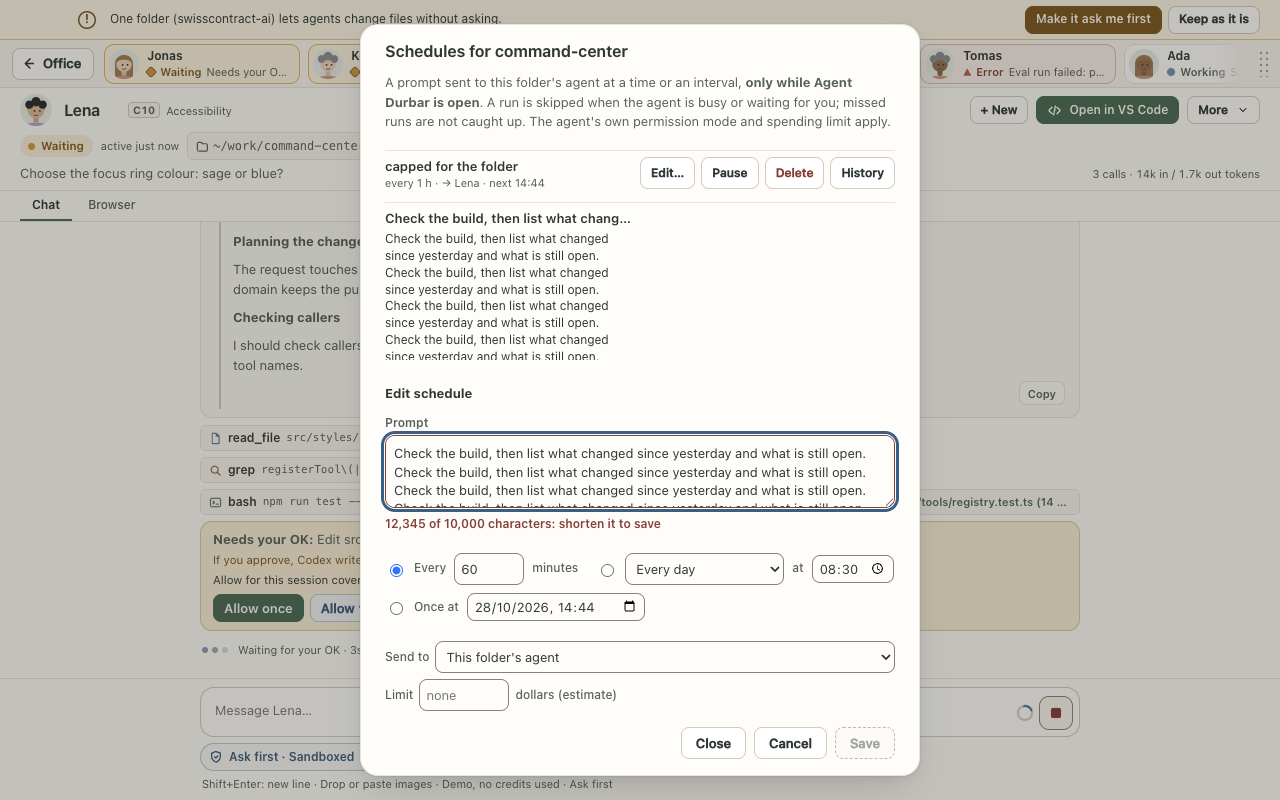
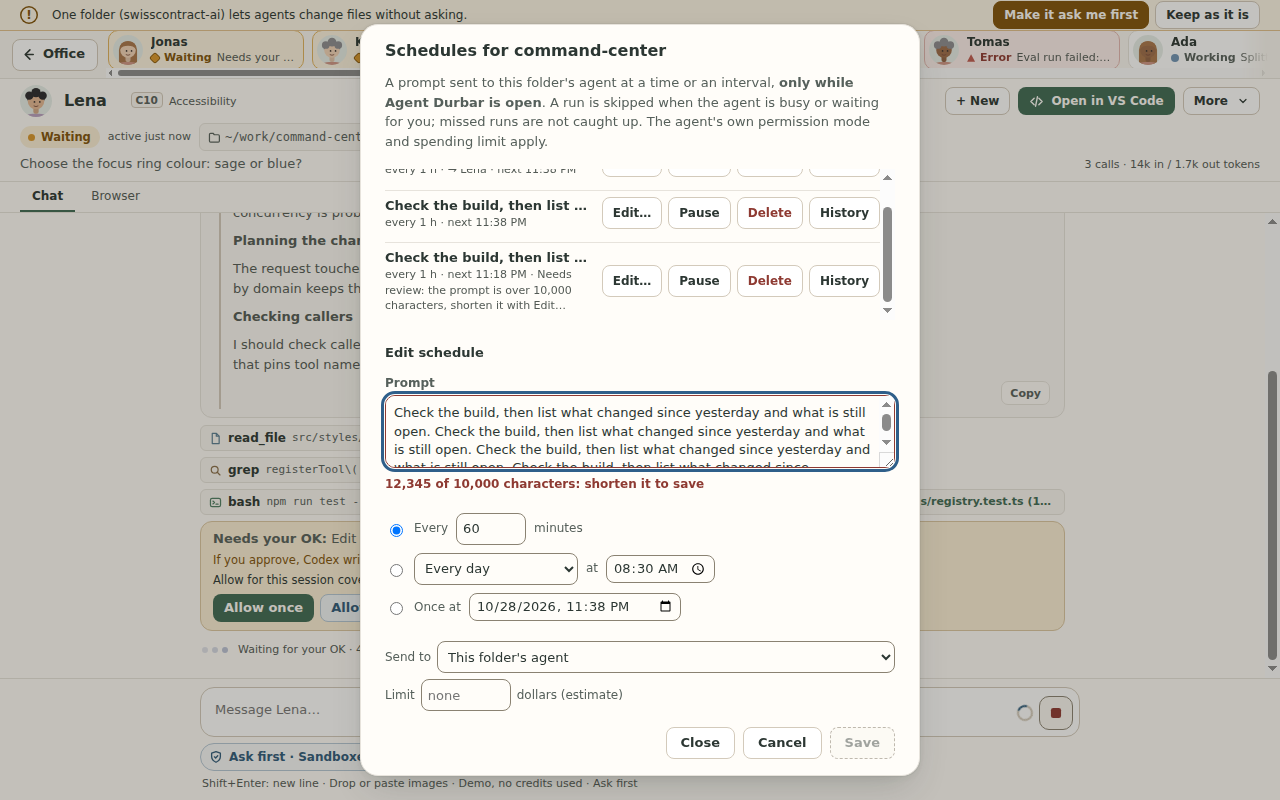
044: no Resume on a review-paused once schedule, full-width opened prompt, review shots show Needs review (#843)

diff --git a/scripts/check-sched-edit.js b/scripts/check-sched-edit.js
@@ -239,6 +239,10 @@ module.exports = async (ctx) => {
       await js(`document.getElementById('scAdd').click()`); await until(`document.querySelectorAll('#sdList .sc-row').length===${jsLiteral(nRows + 1)}`);
       const top = await js(`(()=>{const r=[...document.querySelectorAll('#sdList .sc-row')].pop(),b=r.querySelector('.sc-p'),d=document.querySelector('#schedDlg .dlg');b.click();return {len:r.querySelector('.sc-full').textContent.length,title:b.title.length,sw:d.scrollWidth-d.clientWidth,count:document.getElementById('scPrompt').value.length}})()`);
       assert.deepStrictEqual([top.len, top.sw <= 1, top.title <= 300, top.count], [LIMIT, true, true, 0], `${tag}: the 10,000-character prompt was saved whole and shows without sideways scroll`);
+      const wide = await js(`(()=>{const r=[...document.querySelectorAll('#sdList .sc-row')].pop(),f=r.querySelector('.sc-full').getBoundingClientRect(),w=r.getBoundingClientRect();return {f:f.width,w:w.width}})()`);
+      assert.ok(wide.f >= wide.w - 2, `${tag}: an opened long prompt takes the whole row width, not a column beside the buttons (${JSON.stringify(wide)})`);
+      await js(`[...document.querySelectorAll('#sdList .sc-row')].pop().querySelector('.sc-p').click()`); // fold it again, so it does not push the next rows out of view
+      await until(`[...document.querySelectorAll('#sdList .sc-row')].pop().querySelector('.sc-full').hidden`);
       await small(tag);
       // a stored prompt over the limit (as a hand-edited file would hold it) needs review: the row says why and offers Edit...
       const raw = await js(`window.__durbarSimSched.addRaw(${jsLiteral(text(12345))})`);
@@ -252,7 +256,12 @@ module.exports = async (ctx) => {
       await edit(raw);
       c = await count();
       assert.deepStrictEqual([c.len, c.inv, c.dis, c.text], [12345, 'true', true, '12,345 of 10,000 characters: shorten it to save'], `${tag}: Edit… shows the whole prompt and the error, Save disabled`);
-      await js(`document.getElementById('scFormT').scrollIntoView({block:'start'})`); await settle();
+      // the picture shows the row that says "Needs review" (review of #845): it is scrolled into the list's viewport and checked
+      const rawSmall = `document.querySelector(${jsLiteral(`#sdList [data-id="${raw}"] small`)})`;
+      await js(`${rawSmall}.scrollIntoView({block:'center'})`);
+      await until(`(()=>{const e=${rawSmall},l=document.getElementById('sdList').getBoundingClientRect(),r=e.getBoundingClientRect(),w=document.documentElement.clientHeight;return /Needs review/.test(e.textContent)&&r.height>0&&r.top>=l.top&&r.bottom<=l.bottom&&r.top>=0&&r.bottom<=w})()`, 5000);
+      await settle();
+      await until(`(()=>{const e=${rawSmall},l=document.getElementById('sdList').getBoundingClientRect(),r=e.getBoundingClientRect();return r.top>=l.top&&r.bottom<=l.bottom})()`, 5000); // still inside after the scroll settled
       await ctx.shot(path.join(OUT, `044-length-review-${tag}.png`));
       await type(text(500)); c = await count();
       assert.deepStrictEqual([c.inv, c.dis], ['false', false], `${tag}: shortened, Save is on`);
@@ -265,6 +274,8 @@ module.exports = async (ctx) => {
       await until(`/Needs review/.test(document.querySelector(${jsLiteral(`#sdList [data-id="${onceRaw}"] small`)}).textContent)&&document.querySelector(${jsLiteral(`#sdList [data-id="${onceRaw}"]`)}).classList.contains('off')`);
       const or = (await rows()).find((r) => r.id === onceRaw);
       assert.ok(!/done/.test(or.line) && /paused/i.test(or.line) && or.btns[0] === 'Edit…', `${tag}: a once schedule over the limit is paused for review, not done (${or.line})`);
+      assert.deepStrictEqual(or.btns.filter((x) => /^(Resume|Pause)$/.test(x)), [], `${tag}: a once schedule paused for review has no Resume (it could only fail), only Edit… and Delete (${or.btns})`);
+      assert.ok(or.btns.includes('Delete'), `${tag}: and Delete`);
     }
     console.log('[sched-edit]', tag, 'ok');
   }

diff --git a/src/renderer/app.js b/src/renderer/app.js
@@ -6616,8 +6616,8 @@ function schedLine(s){
     +(s.cap?' · spent '+capAmt(s.spent||0,s.cap.unit)+' of '+capAmt(s.cap.amount,s.cap.unit)+(s.spentUnknown?' (the spend was not fully reported)':''):'')
     +(s.last?' · last '+clock(s.last.at)+': '+SH().outcomeWord(s.last.outcome):'');
 }
-/* the row's buttons; `k` is the data attribute (sc in the dialog, ss in Settings). An ended session cannot be resumed, only moved to the folder's agent (FR-014). */
-const schedBtns=(s,k)=>`<button class="btn" type="button" data-${k}="edit" data-id="${esc(s.id)}">Edit…</button>`+(s.done?'':s.paused&&s.pausedReason==='session-ended'?`<button class="btn" type="button" data-${k}="retarget" data-id="${esc(s.id)}" title="Send it to this folder's agent from now on, and resume it">Use the folder's agent</button>`
+/* the row's buttons; `k` is the data attribute (sc in the dialog, ss in Settings). An ended session cannot be resumed, only moved to the folder's agent (FR-014); a once schedule paused for review has no Resume (its time has passed, it can only be fixed with Edit…, FR-124). */
+const schedBtns=(s,k)=>`<button class="btn" type="button" data-${k}="edit" data-id="${esc(s.id)}">Edit…</button>`+(s.done||(s.paused&&s.pausedReason==='review')?'':s.paused&&s.pausedReason==='session-ended'?`<button class="btn" type="button" data-${k}="retarget" data-id="${esc(s.id)}" title="Send it to this folder's agent from now on, and resume it">Use the folder's agent</button>`
   :`<button class="btn" type="button" data-${k}="pause" data-id="${esc(s.id)}"${s.pausedReason==='cap'?' title="Resume starts counting its spending again from zero"':''}>${s.paused?'Resume':'Pause'}</button>`)
   +`<button class="btn danger" type="button" data-${k}="del" data-id="${esc(s.id)}">Delete</button>`
   +`<button class="btn" type="button" data-${k}="hist" data-id="${esc(s.id)}" aria-expanded="${HIST_OPEN.has(k+':'+s.id)}" aria-controls="sh-${k}-${esc(s.id)}" title="When it ran and what happened">History</button>`;

diff --git a/src/renderer/styles.css b/src/renderer/styles.css
@@ -1039,6 +1039,7 @@ body:has(#aiTryBar) #toasts{bottom:100px}
 .sched-dlg .sc-t .sc-p:hover,.sched-set .sc-t .sc-p:hover{text-decoration:underline}
 .sched-dlg .sc-full,.sched-set .sc-full{margin:4px 0;font-size:12px;line-height:1.4;white-space:pre-wrap;overflow-wrap:anywhere}
 .sched-dlg .sc-full[hidden],.sched-set .sc-full[hidden]{display:none}
+.sched-dlg .sc-t:has(.sc-p[aria-expanded="true"]),.sched-set .sc-t:has(.sc-p[aria-expanded="true"]){flex:0 0 100%} /* review of #845: an opened prompt takes the whole row (as .sc-hist does), the buttons wrap under it, so a long text does not wrap at about 240px beside them */
 .sched-dlg .sc-form h4{margin:0;font-size:13px}
 .sched-dlg .sc-form h4[hidden]{display:none}
 .sched-dlg .sc-t small,.sched-set .sc-t small{font-size:11px;color:var(--muted)}
